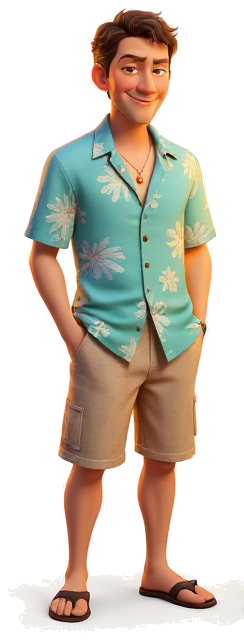
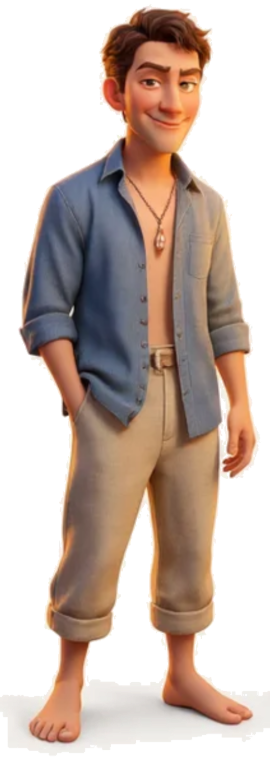
Bright final: storybook beachcomber (founder + author approved direction)
Cut from the storybook-linen render (keyCast now supports y-bounds so crops
can come from phone screenshots too). Faded-blue open linen shirt, rolled
trousers, barefoot, shell necklace — relaxed expressed through how clothes
are worn, in the same handmade costume language as the rest of the cast.
His spark renders in-engine as a living glow.

Claude-Session: https://claude.ai/code/session_01MuNd8STK4UcpsXYzWxo8z9

diff --git a/game/tools/process-assets.js b/game/tools/process-assets.js
@@ -78,9 +78,10 @@ const save = (name, durl) => { fs.writeFileSync(path.join(OUT, name), Buffer.fro
       const out = {};
       for (const b of boxes) {
         const bx0 = Math.round(b.x0 * w), bx1 = Math.round(b.x1 * w), bw = bx1 - bx0;
-        const tc = document.createElement('canvas'); tc.width = bw; tc.height = h;
-        const tg = tc.getContext('2d'); tg.drawImage(c, bx0, 0, bw, h, 0, 0, bw, h);
-        const d = tg.getImageData(0, 0, bw, h), a = d.data;
+        const by0 = Math.round((b.y0 || 0) * h), by1 = Math.round((b.y1 || 1) * h), bh = by1 - by0;
+        const tc = document.createElement('canvas'); tc.width = bw; tc.height = bh;
+        const tg = tc.getContext('2d'); tg.drawImage(c, bx0, by0, bw, bh, 0, 0, bw, bh);
+        const d = tg.getImageData(0, 0, bw, bh), a = d.data;
         // key white → alpha
         for (let i = 0; i < a.length; i += 4) {
           const dr = 255 - a[i], dg = 255 - a[i + 1], db = 255 - a[i + 2];
@@ -92,7 +93,8 @@ const save = (name, durl) => { fs.writeFileSync(path.join(OUT, name), Buffer.fro
             a[i+2]=Math.min(255,Math.max(0,(a[i+2]-inv)/al)); }
         }
         // keep only the largest connected blob (drops neighbour slivers at the edges)
-        const N = bw * h, lab = new Int32Array(N).fill(-1), stack = new Int32Array(N);
+        const h2 = bh;
+        const N = bw * h2, lab = new Int32Array(N).fill(-1), stack = new Int32Array(N);
         let best = -1, bestSize = 0, comp = 0;
         for (let p = 0; p < N; p++) {
           if (a[p * 4 + 3] <= 70 || lab[p] !== -1) continue;
@@ -103,13 +105,13 @@ const save = (name, durl) => { fs.writeFileSync(path.join(OUT, name), Buffer.fro
             if (qx > 0 && a[(q - 1) * 4 + 3] > 70 && lab[q - 1] === -1) { lab[q - 1] = comp; stack[sp++] = q - 1; }
             if (qx < bw - 1 && a[(q + 1) * 4 + 3] > 70 && lab[q + 1] === -1) { lab[q + 1] = comp; stack[sp++] = q + 1; }
             if (qy > 0 && a[(q - bw) * 4 + 3] > 70 && lab[q - bw] === -1) { lab[q - bw] = comp; stack[sp++] = q - bw; }
-            if (qy < h - 1 && a[(q + bw) * 4 + 3] > 70 && lab[q + bw] === -1) { lab[q + bw] = comp; stack[sp++] = q + bw; }
+            if (qy < h2 - 1 && a[(q + bw) * 4 + 3] > 70 && lab[q + bw] === -1) { lab[q + bw] = comp; stack[sp++] = q + bw; }
           }
           if (size > bestSize) { bestSize = size; best = comp; }
           comp++;
         }
-        let minx = bw, miny = h, maxx = 0, maxy = 0;
-        for (let y = 0; y < h; y++) for (let x = 0; x < bw; x++) {
+        let minx = bw, miny = h2, maxx = 0, maxy = 0;
+        for (let y = 0; y < h2; y++) for (let x = 0; x < bw; x++) {
           const p = y * bw + x;
           if (!b.keepAll && lab[p] !== best) { a[p * 4 + 3] = 0; }              // erase everything but the main character
           else { if (x < minx) minx = x; if (x > maxx) maxx = x; if (y < miny) miny = y; if (y > maxy) maxy = y; }
@@ -117,7 +119,7 @@ const save = (name, durl) => { fs.writeFileSync(path.join(OUT, name), Buffer.fro
         tg.putImageData(d, 0, 0);
         const pad = 8;
         minx = Math.max(0, minx - pad); miny = Math.max(0, miny - pad);
-        maxx = Math.min(bw - 1, maxx + pad); maxy = Math.min(h - 1, maxy + pad);
+        maxx = Math.min(bw - 1, maxx + pad); maxy = Math.min(h2 - 1, maxy + pad);
         const cw = maxx - minx + 1, ch = maxy - miny + 1;
         const s = Math.min(1, 760 / Math.max(cw, ch));
         const ow = Math.max(1, Math.round(cw * s)), oh = Math.max(1, Math.round(ch * s));
@@ -177,7 +179,7 @@ const save = (name, durl) => { fs.writeFileSync(path.join(OUT, name), Buffer.fro
 
   console.log('· FINAL CG cast — five from approved sheet, Bright from v3');
   const CG5 = U + '72e6e22f-IMG_1244.png';
-  const CGB = U + '3d4899b1-IMG_1247.png';
+  const CGB = U + '98b2ece3-IMG_1250.png';
   await keyCast(CG5, [
     { name: 'kazoo',  x0: 0.214, x1: 0.360 },
     { name: 'patch',  x0: 0.360, x1: 0.512 },
@@ -185,7 +187,7 @@ const save = (name, durl) => { fs.writeFileSync(path.join(OUT, name), Buffer.fro
     { name: 'shaky',  x0: 0.663, x1: 0.828, keepAll: true },
     { name: 'thread', x0: 0.828, x1: 1.0 },
   ], 85, 0.24);
-  await keyCast(CGB, [ { name: 'bright', x0: 0.02, x1: 0.205 } ], 85, 0.24);
+  await keyCast(CGB, [ { name: 'bright', x0: 0.02, x1: 0.44, y0: 0.16, y1: 0.925 } ], 85, 0.24);
   // (retired) painterly-lineup cast cut — superseded by the FINAL CG cast above
 
   await b.close();